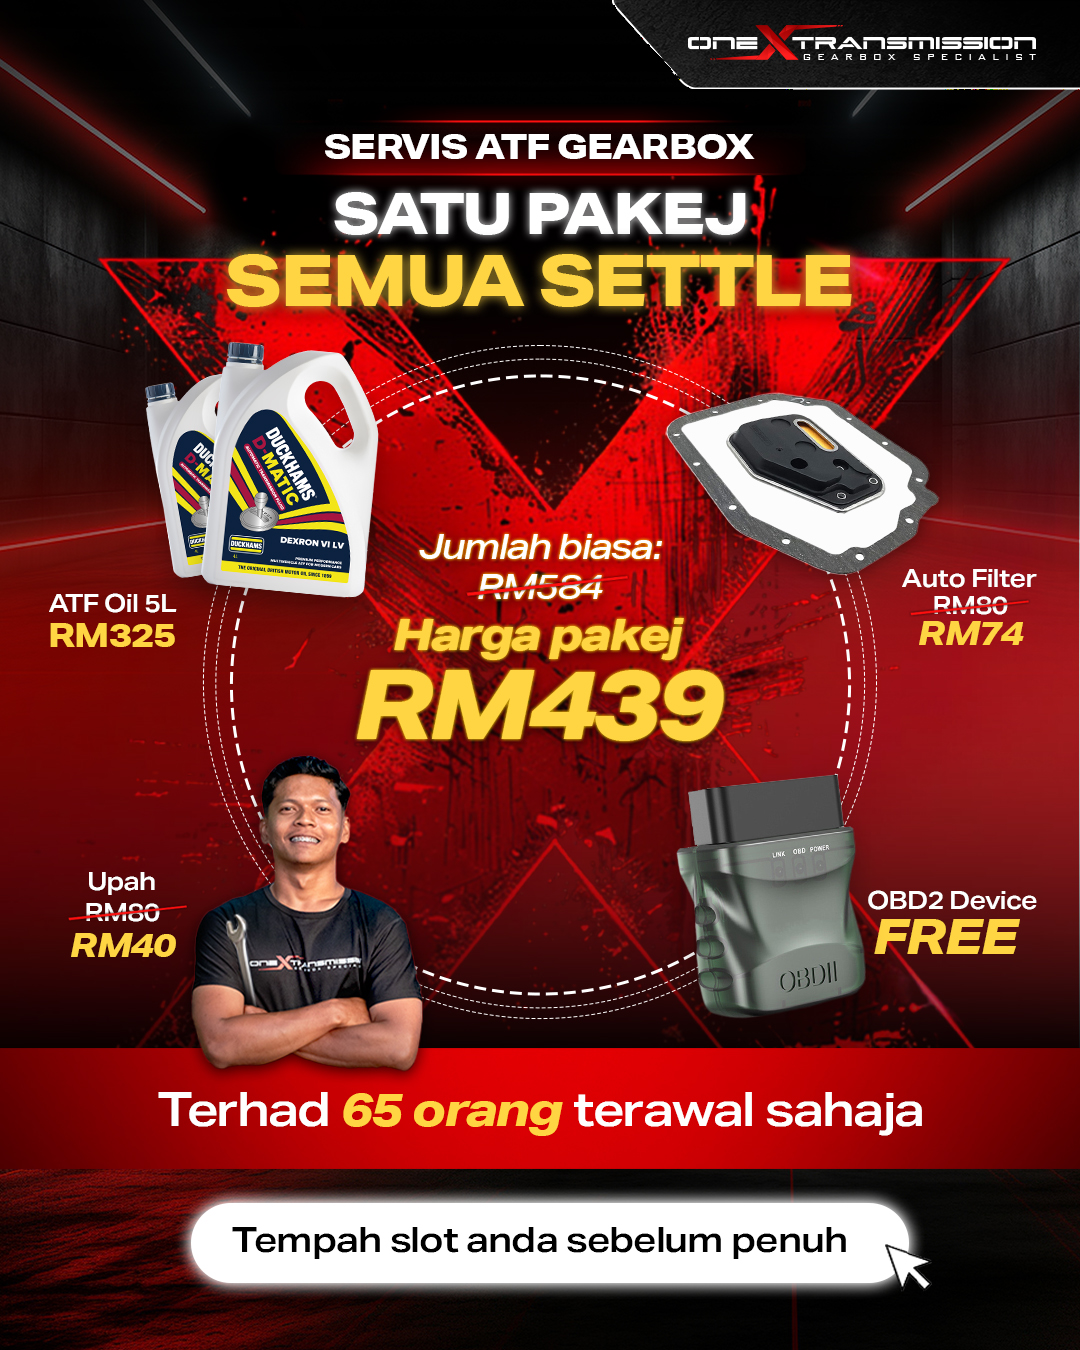
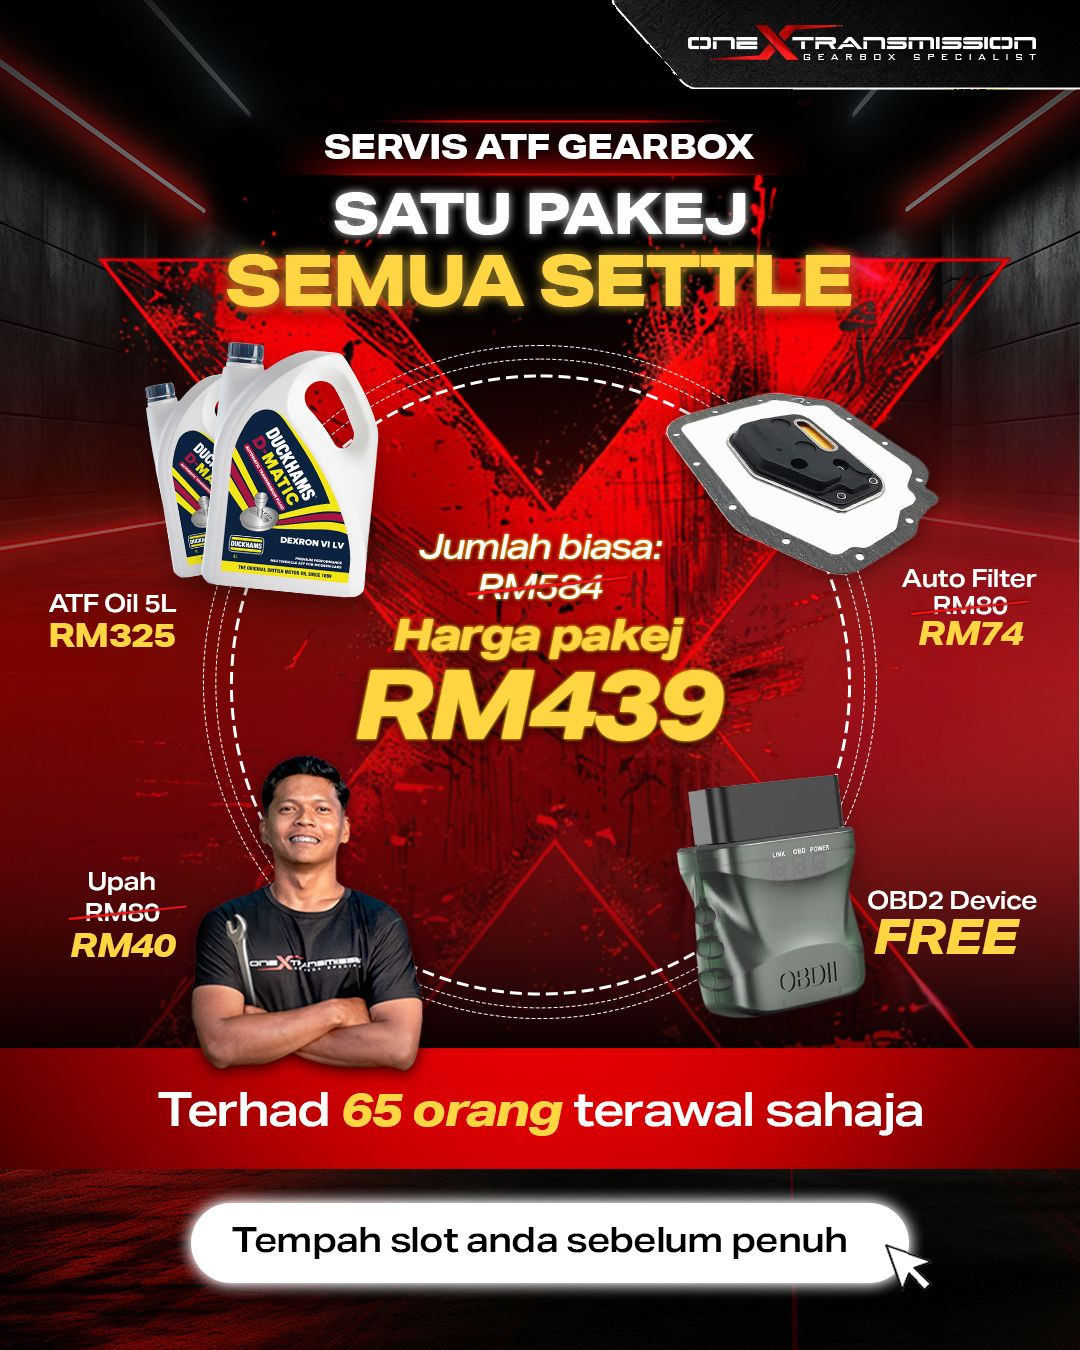
feat: cart toast notification, Sunday note on date picker, compress promo images

diff --git a/components/ui/CartToast.tsx b/components/ui/CartToast.tsx
@@ -1,0 +1,51 @@
+'use client'
+
+import { useEffect, useState } from 'react'
+import Link from 'next/link'
+import { useCart } from '@/lib/cart-context'
+import { getProductName, getProduct } from '@/lib/products'
+import { type Locale } from '@/content'
+
+export default function CartToast({ locale }: { locale: Locale }) {
+  const { lastAdded, totalItems } = useCart()
+  const [visible, setVisible] = useState(false)
+  const [productName, setProductName] = useState('')
+
+  useEffect(() => {
+    if (lastAdded) {
+      const product = getProduct(lastAdded)
+      setProductName(product ? getProductName(product, locale) : '')
+      setVisible(true)
+      const timer = setTimeout(() => setVisible(false), 2200)
+      return () => clearTimeout(timer)
+    }
+  }, [lastAdded, locale])
+
+  if (!visible || !productName) return null
+
+  return (
+    <div
+      className="fixed top-20 right-4 z-[9999]"
+      style={{ animation: 'cartToastIn 0.3s ease-out' }}
+    >
+      <style>{`@keyframes cartToastIn{from{opacity:0;transform:translateX(100%)}to{opacity:1;transform:translateX(0)}}`}</style>
+      <div className="bg-green-600 text-white px-5 py-3.5 shadow-2xl flex items-center gap-4 max-w-sm">
+        <div className="flex-shrink-0">
+          <svg className="w-5 h-5" fill="none" viewBox="0 0 24 24" stroke="currentColor" strokeWidth={2.5}>
+            <path strokeLinecap="round" strokeLinejoin="round" d="M5 13l4 4L19 7" />
+          </svg>
+        </div>
+        <div className="flex-1 min-w-0">
+          <p className="text-sm font-bold truncate">{productName}</p>
+          <p className="text-xs opacity-90">Added to cart ({totalItems})</p>
+        </div>
+        <Link
+          href={`/${locale}/shop/cart`}
+          className="text-xs font-bold uppercase tracking-wider bg-white/20 hover:bg-white/30 px-3 py-1.5 transition-colors flex-shrink-0"
+        >
+          View
+        </Link>
+      </div>
+    </div>
+  )
+}

diff --git a/lib/cart-context.tsx b/lib/cart-context.tsx
@@ -16,6 +16,7 @@ interface CartContextValue {
   clearCart: () => void
   totalItems: number
   totalPrice: number
+  lastAdded: string | null
 }
 
 const CartContext = createContext<CartContextValue | null>(null)
@@ -40,6 +41,7 @@ function saveCart(items: CartItem[]) {
 export function CartProvider({ children }: { children: ReactNode }) {
   const [items, setItems] = useState<CartItem[]>([])
   const [loaded, setLoaded] = useState(false)
+  const [lastAdded, setLastAdded] = useState<string | null>(null)
 
   useEffect(() => {
     setItems(loadCart())
@@ -62,6 +64,8 @@ export function CartProvider({ children }: { children: ReactNode }) {
       }
       return [...prev, { product, quantity }]
     })
+    setLastAdded(product.slug)
+    setTimeout(() => setLastAdded(null), 2500)
   }, [])
 
   const removeItem = useCallback((slug: string) => {
@@ -89,7 +93,7 @@ export function CartProvider({ children }: { children: ReactNode }) {
   }, 0)
 
   return (
-    <CartContext.Provider value={{ items, addItem, removeItem, updateQuantity, clearCart, totalItems, totalPrice }}>
+    <CartContext.Provider value={{ items, addItem, removeItem, updateQuantity, clearCart, totalItems, totalPrice, lastAdded }}>
       {children}
     </CartContext.Provider>
   )

diff --git a/components/sections/Shop/CheckoutPageClient.tsx b/components/sections/Shop/CheckoutPageClient.tsx
@@ -285,11 +285,15 @@ export default function CheckoutPageClient({ locale }: CheckoutPageClientProps) 
                             const val = e.target.value
                             // Block Sundays
                             const d = new Date(val + 'T00:00:00')
-                            if (d.getDay() === 0) return
+                            if (d.getDay() === 0) {
+                              updateField('preferredDate', '')
+                              return
+                            }
                             updateField('preferredDate', val)
                           }}
                           className="w-full p-4 text-body-sm font-medium bg-neutral-900 border border-neutral-800 text-white focus:border-brand-red focus:outline-none transition-colors duration-200 [color-scheme:dark]"
                         />
+                        <p className="text-[11px] text-neutral-600 mt-1.5">* Closed on Sundays / Tutup pada hari Ahad</p>
                       </div>
                     </FadeIn>
                     <FadeIn delay={0.3}>

diff --git a/app/[locale]/(site)/layout.tsx b/app/[locale]/(site)/layout.tsx
@@ -2,6 +2,7 @@ import { type Locale, locales } from '@/content'
 import PageShell from '@/components/layout/PageShell'
 import { generateLocalBusinessJsonLd } from '@/lib/structured-data'
 import { CartProvider } from '@/lib/cart-context'
+import CartToast from '@/components/ui/CartToast'
 
 export function generateStaticParams() {
   return locales.map((locale) => ({ locale }))
@@ -24,6 +25,7 @@ export default async function SiteLayout({
         dangerouslySetInnerHTML={{ __html: JSON.stringify(generateLocalBusinessJsonLd()) }}
       />
       <PageShell locale={locale}>{children}</PageShell>
+      <CartToast locale={locale} />
     </CartProvider>
   )
 }
